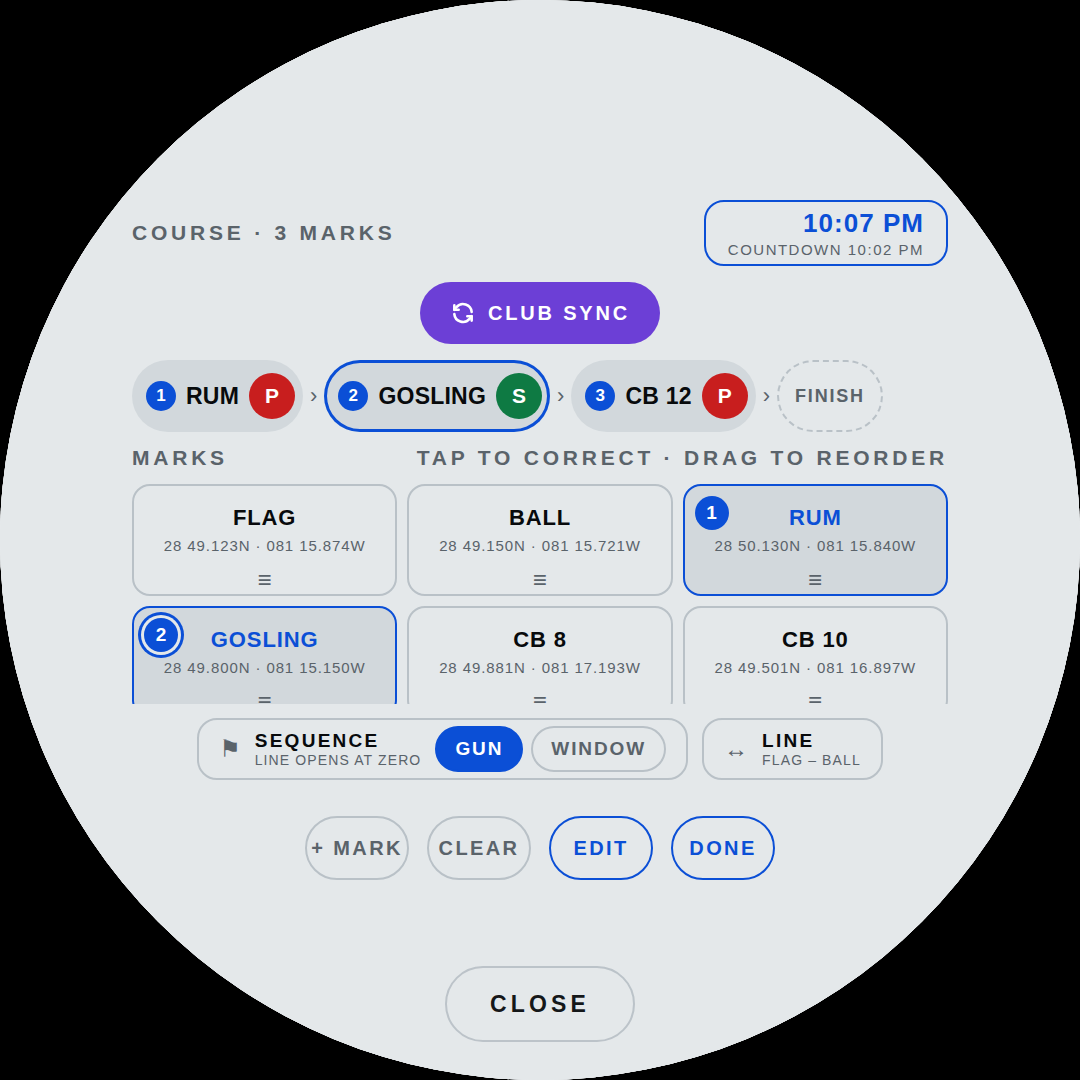
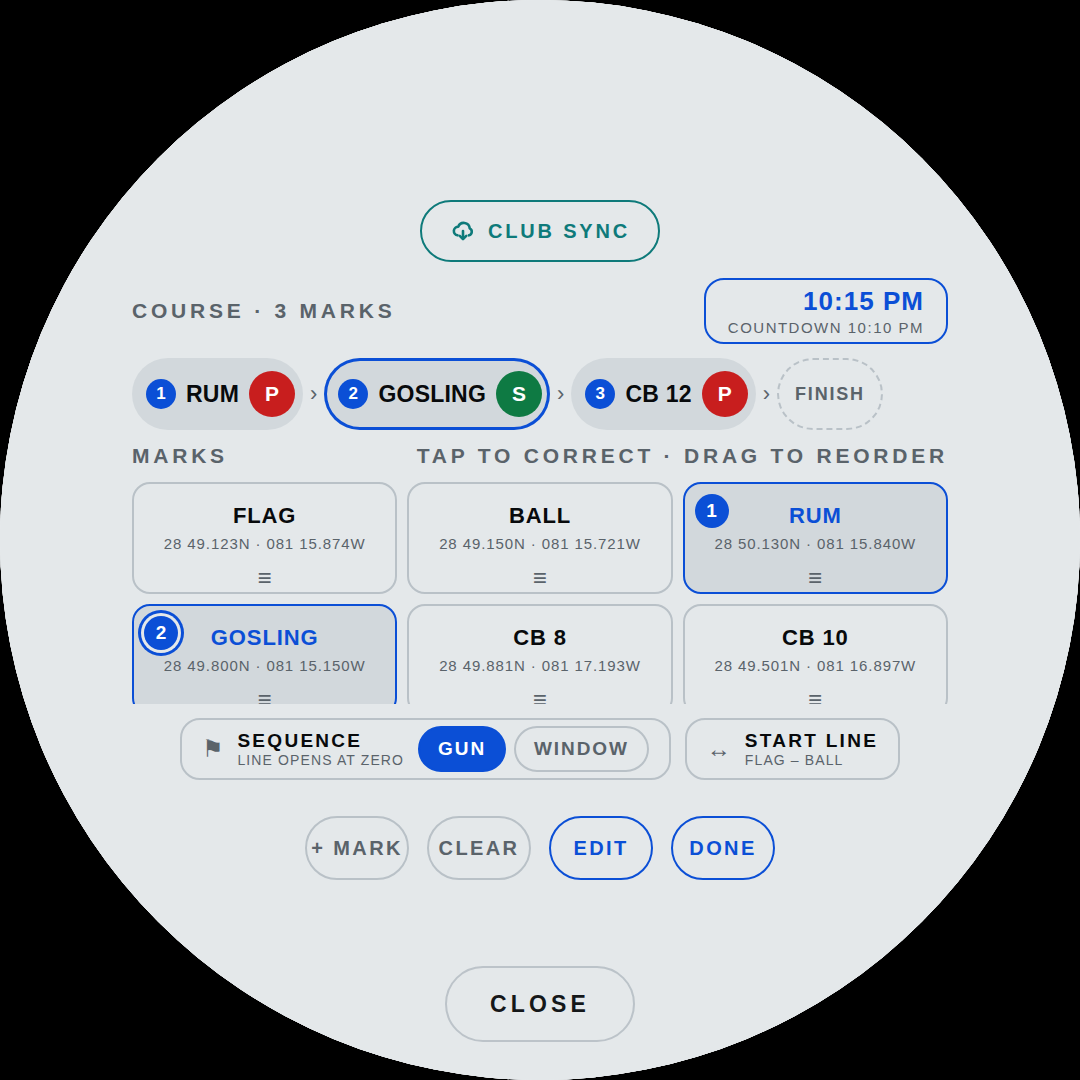
CLUB SYNC goes above the heading, in teal, out of a cloud
Above the heading rather than under it, because it is what you do
first: before reading what the course says, you ask the club what it is.
An outline rather than a filled pill now that it sits at the top of the
sheet on its own - a lit block up there shouts across the whole page -
and teal rather than violet.

The icon is a cloud with the course coming down out of it. Circling
arrows say sync about two things kept level with each other; this only
ever comes one way, off the site and onto the boat.

And the line chip says START LINE, with both ends on it - FLAG - BALL,
or PINGED and the way back to the marks. Which line the race starts and
finishes on is the one fact on this sheet you cannot work out from
anything else on it, and LINE on its own was not that fact.

Docs say where the start lives now - the time top right, SEQUENCE and
START LINE under the marks - because it is the question the layout
raises.

Claude-Session: https://claude.ai/code/session_01BmvizJiQLmvpEFfAxzaKX2

diff --git a/confluence_helm.html b/confluence_helm.html
@@ -60,7 +60,7 @@ body{                                   /* DAY - built to beat sun   */
      off the members' site is not the kind of thing the app's blue
      buttons do, and it is the only tap here that can replace a course
      you are already sailing. */
-  --club:#6C3FD6;
+  --club:#0E7A7A;
   --w-huge:600; --w-val:600; --w-lbl:600;
 }
 body.dusk{
@@ -68,7 +68,7 @@ body.dusk{
   --hairline:#242A2F; --accent:#4A9EFF; --port:#FF4D4D; --stbd:#24D17E;
   --warn:#FFB020; --alarm:#FF3B30; --panel:#15181B; --chip:#22272B;
   --port-g1:#C81E1E; --port-g2:#FF4D4D; --stbd-g1:#0E7A43; --stbd-g2:#24D17E;
-  --club:#7C5CE6;                       /* lifted off a dark panel     */
+  --club:#19A8A8;                       /* lifted off a dark panel     */
   --w-huge:300; --w-val:300; --w-lbl:500;
 }
 body.night{
@@ -896,21 +896,22 @@ text{font-variant-numeric:tabular-nums;dominant-baseline:middle}
 .cv-start.in{border-color:var(--accent)}
 .cv-start.in b{color:var(--accent)}
 /* ---- the club's course ----
-   Centred under the heading with air of its own: it is the one control
+   Above the heading, centred, with air of its own: it is the one control
    on this sheet that fills the whole page in a tap, so it is not buried
-   in a row of marks. In the club's own colour rather than the accent for
-   the same reason - and at night it goes to an outline, because a lit
-   block of anything costs an hour of dark adaptation. */
-.sync-wrap{display:flex;justify-content:center;flex:none;margin:2px 0}
+   in a row of marks. It comes first because it is what you do first -
+   before you look at what the course says, you ask the club what it is.
+   In the club's own colour rather than the accent for the same reason,
+   and an outline rather than a lit block: it is the only thing above the
+   heading, and a filled pill up there shouts across the whole sheet. */
+.sync-wrap{display:flex;justify-content:center;flex:none;margin:0 0 2px}
 .sync{display:inline-flex;align-items:center;gap:12px;height:62px;padding:0 28px;
-  border-radius:31px;border:2px solid transparent;background:var(--club);color:#fff;
+  border-radius:31px;border:2px solid var(--club);background:none;color:var(--club);
   font-family:var(--font);font-size:20px;font-weight:600;letter-spacing:.14em;
   white-space:nowrap}
 .sync svg{width:26px;height:26px;fill:none;stroke:currentColor;stroke-width:2.4;
   stroke-linecap:round;stroke-linejoin:round}
-.sync:active{opacity:.7}
+.sync:active{background:var(--chip)}
 .sync.busy{opacity:.55}
-body.night .sync{background:none;border-color:var(--club);color:var(--club)}
 /* What it found, or why it found nothing. One line, ellipsised: the
    club's note can be longer than the face is wide. */
 .cv-note{flex:none;font-size:17px;letter-spacing:.08em;color:var(--label);
@@ -2343,12 +2344,12 @@ document.body.className = THEME_EFF==='day' ? '' : THEME_EFF;
     <div class="t-title" id="course-title">Course</div>
     <div id="course-main">
       <div class="cv">
-        <div class="cv-hd"><span id="cv-count">Course</span>
-          <button class="cv-start" id="cv-start"></button></div>
-        <!-- Tonight's course, off the members' site. Centred, in the
-             club's own colour: see --club. -->
+        <!-- Tonight's course, off the members' site. Centred above the
+             heading, in the club's own colour: see --club. -->
         <div class="sync-wrap"><button class="sync" id="cv-sync"></button></div>
         <div class="cv-note" id="cv-say"></div>
+        <div class="cv-hd"><span id="cv-count">Course</span>
+          <button class="cv-start" id="cv-start"></button></div>
         <div class="cv-strip" id="cv-strip"></div>
         <div class="cv-hd"><span>Marks</span><span id="cv-hint">Tap to add</span></div>
         <div class="cv-grid" id="course-list"></div>
@@ -8533,12 +8534,13 @@ const closeLib=()=>{ hideQR(); $('t-lib').classList.remove('on'); $('t-course').
    not a mark, and the grid scrolls. */
 let courseEdit=false;
 
-/* Two circling arrows - the mark every piece of software uses for a
-   sync, and the only glyph in this file that means 'from somewhere
-   else'. */
-const ICO_SYNC='<svg viewBox="0 0 24 24"><path d="M20 11a8 8 0 0 0-14-4.5L4 9"/>'
-  +'<path d="M4 5v4h4"/><path d="M4 13a8 8 0 0 0 14 4.5L20 15"/>'
-  +'<path d="M20 19v-4h-4"/></svg>';
+/* A cloud with the course coming down out of it. Circling arrows would
+   say 'sync' too, but they say it about two things kept level with each
+   other - and this only ever comes one way, off the site and onto the
+   boat. */
+const ICO_SYNC='<svg viewBox="0 0 24 24">'
+  +'<path d="M7 16a4 4 0 0 1 .6-7.96 5.5 5.5 0 0 1 10.6 1.46A3.5 3.5 0 0 1 17.5 16"/>'
+  +'<path d="M12 12v7"/><path d="M9 16.5l3 3 3-3"/></svg>';
 
 function renderCourse(){
   const box=$('course-list'); if(!box) return;
@@ -8611,8 +8613,11 @@ function renderCourse(){
     +'<div class="side wide"><span class="sb'+(w?'':' on')+'" data-mode="gun">GUN</span>'
     +'<span class="sb'+(w?' on':'')+'" data-mode="window">WINDOW</span></div>';
   const E=lineEnds();
-  $('cv-line').innerHTML='<i>↔</i><div><b>'+(E.pinged?'LINE · PINGED':'LINE')
-    +'</b><s>'+esc(E.pinged ? 'TAP TO USE THE MARKS'
+  /* Which line the race starts and finishes on, said in full: the two
+     ends by name, or PINGED and the two ends you pinged. It is the one
+     thing on this sheet you cannot work out from anything else. */
+  $('cv-line').innerHTML='<i>↔</i><div><b>START LINE</b><s>'
+    +esc(E.pinged ? 'PINGED · TAP FOR THE MARKS'
         : markOf(LINE_MARKS.pin).hdr+' – '+markOf(LINE_MARKS.boat).hdr)+'</s></div>';
 }
 /* The sheet's title is what the sub-views are called. The course view's

diff --git a/docs/readings.md b/docs/readings.md
@@ -483,13 +483,27 @@ sign at 15 px. The club's marks and your own read the same way. Tiles
 carry the short name — the one the cell headers and the RACE box use,
 where a name has to fit in 32 px.
 
+**Everything about the start is on this sheet.** The time is top right,
+and the two chips under the marks are the other two things:
+
+| | |
+|---|---|
+| `SEQUENCE` | `GUN` or `WINDOW` — which procedure tonight is, above |
+| `START LINE` | which line the race starts *and* finishes on: the club's two marks by name, `FLAG – BALL`, or `PINGED · TAP FOR THE MARKS` once you have pinged the ends yourself with `P` and `B` on the dial |
+
+Tapping `START LINE` while a pinged line is in force **drops the pings**
+and goes back to the club's marks — the way back from a ping taken at
+the wrong end. It is the one fact on this sheet you cannot work out from
+anything else on it, which is why it says both ends rather than just
+that a line exists.
+
 ### CLUB SYNC
 
 ![The club's course, found and waiting](img/course-club.png)
 
 The club posts the evening's marks on the members' site by 5:30, the
-same ones that go on the clubhouse door. **CLUB SYNC**, centred under
-the heading, fetches them: they are these marks under three different
+same ones that go on the clubhouse door. **CLUB SYNC**, centred at the
+top of the sheet above the heading, fetches them: they are these marks under three different
 names, so the site does the translating and hands back ids this file
 already knows.
 
@@ -512,11 +526,13 @@ the Pi can reach in and set a course — the right way round for a box on
 a boat. The read at the other end is open, because a posted course is
 public by the time it matters, so there is no login to carry.
 
-The button wears its own colour — `--club`, a violet by day, an outline
-at night where a lit block of anything costs an hour of dark adaptation.
-It is not one of the app's blue actions: it is the only tap on this
-sheet that reaches off the boat, and the only one that can replace a
-course you are already sailing.
+The button wears its own colour — `--club`, a teal, as an outline with a
+cloud the course comes down out of. It is not one of the app's blue
+actions and it is not a lit block sitting above the heading: it is the
+only tap on this sheet that reaches off the boat, and the only one that
+can replace a course you are already sailing. It comes first because it
+is what you do first — before reading what the course says, you ask the
+club what it is.
 
 ![Adding a mark of your own](img/course-form.png)
 
